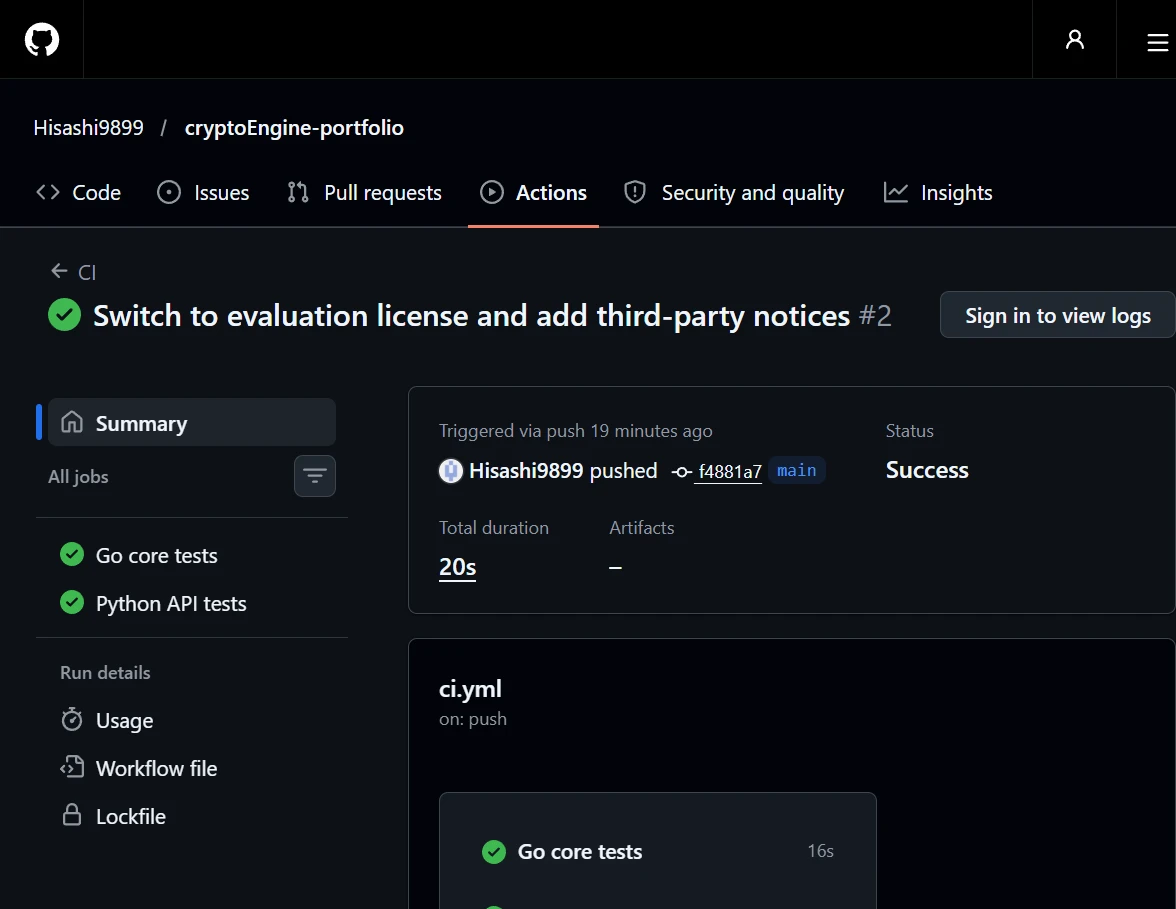
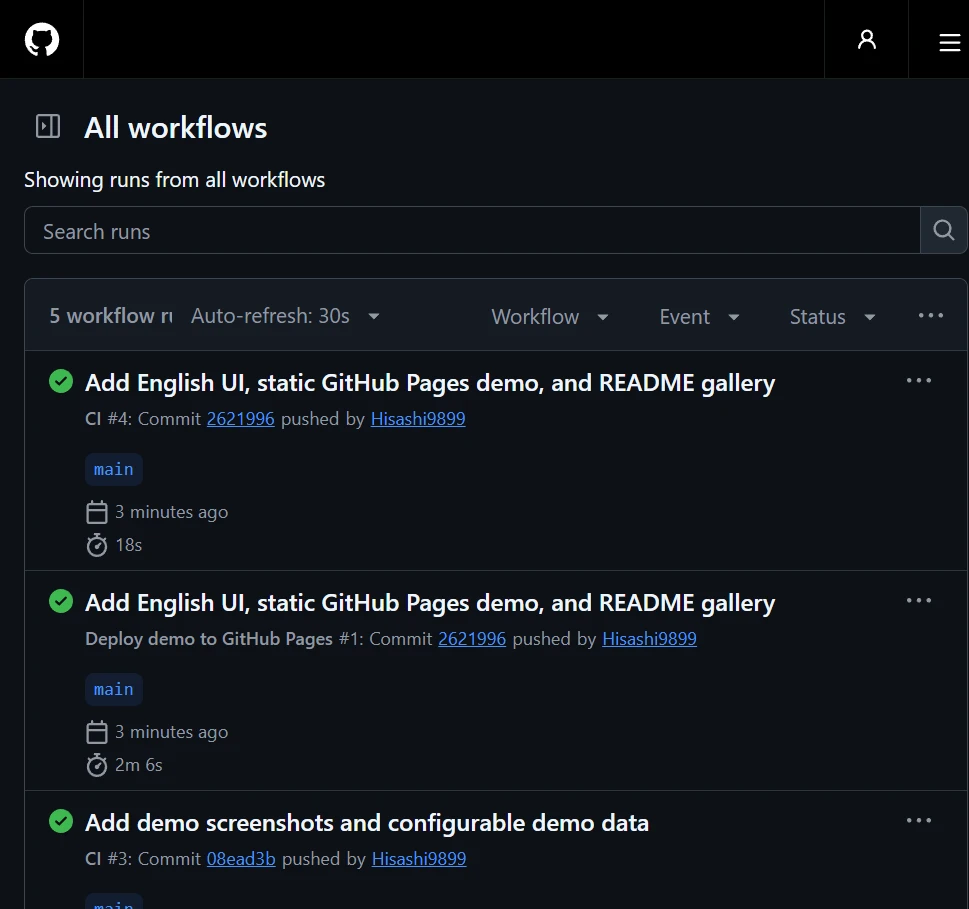
Update CI/CD screenshot and demo GIF

diff --git a/README.md b/README.md
@@ -36,7 +36,7 @@ The project is intentionally opinionated about reliability: the execution loop o
 <p align="center">
   <img src="docs/screenshots/ci-success.webp" alt="GitHub Actions CI success" width="840">
   <br>
-  <sub>CI — Go core tests and Python API tests on every push</sub>
+  <sub>CI/CD — Go core tests and Python API tests, plus static demo deployment to GitHub Pages</sub>
 </p>
 
 > Screenshots use deterministic demo data, not a live account. The static demo runs entirely in the browser (`NEXT_PUBLIC_DEMO_MODE=1`); the backend demo uses `DEMO_DATA_ENABLED=1`.
